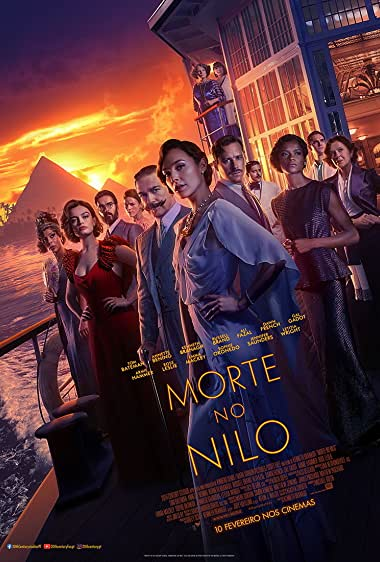
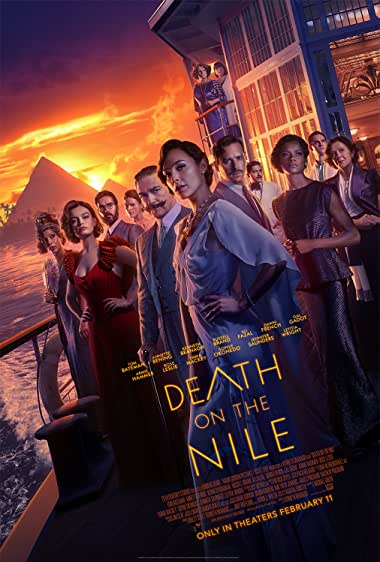
feat: replaces the Death On The Nile movie poster image

diff --git a/pages/api/spotify/top-artists.ts b/pages/api/spotify/top-artists.ts
@@ -3,7 +3,7 @@ import { Redis } from '@upstash/redis';
 import { getTopArtists } from '@src/clients/spotify/spotify';
 
 import type { NextApiRequest, NextApiResponse } from 'next';
-import { SpotifyTimeRange } from '@src/clients/spotify/spotify.types';
+import type { SpotifyTimeRange } from '@src/clients/spotify/spotify.types';
 
 export default async function handler(request: NextApiRequest, response: NextApiResponse) {
   const { get } = new Redis({
